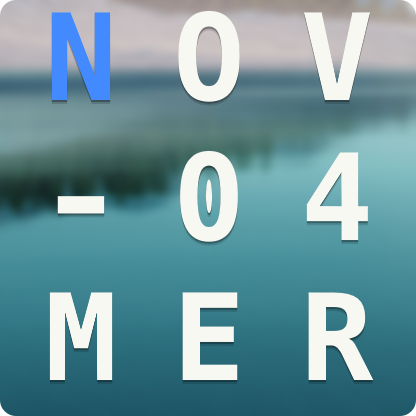
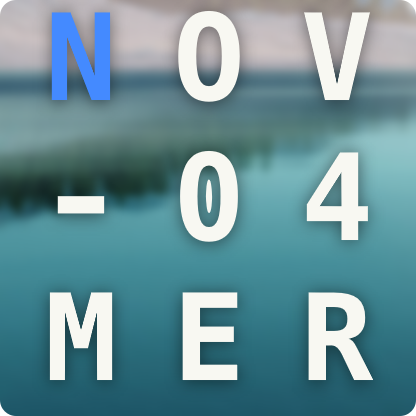
Soft Gaussian text shadow instead of offset copies
Uses the renderer's textShadow; SVG strokes get a faint halo and dividers
or tiles a box shadow. Previews refreshed.

Claude-Session: https://claude.ai/code/session_01TQxuuqy7Zop3gq1fjvXepm

diff --git a/src/shared/look.tsx b/src/shared/look.tsx
@@ -12,12 +12,17 @@ export interface Look {
   track: string;
   accent: string;
   onAccent: string;
+  /** CSS text-shadow on the wallpaper, null on a card or when turned off. */
+  shadow: string | null;
+  /** Colour of the soft halo SVG strokes get under them (SVG has no shadow), or null. */
+  halo: string | null;
 }
 
 export interface LookSettings {
   theme: string; // "dark" (light text) | "light" (dark text) | "auto" (follow Windows)
   accent: string; // "system" | "#RRGGBB"
   background: string; // "none" | "acrylic"
+  shadow?: boolean;
 }
 
 const valid = (c: string) => /^#[0-9a-fA-F]{6}$/.test(c);
@@ -49,9 +54,13 @@ export function look(s: LookSettings, system = { dark: true, accent: "#0078D4" }
     const base = valid(system.accent) ? system.accent : "#0078D4";
     accent = dark ? mix(base, 0.45) : mix(base, -0.2);
   } else accent = s.accent;
+  const card = s.background === "acrylic";
+  const shade = !card && s.shadow !== false;
   const base = {
     dark,
-    card: s.background === "acrylic",
+    card,
+    shadow: shade ? (dark ? "0 1px 8px rgba(0, 0, 0, 0.5)" : "0 0 8px rgba(255, 255, 255, 0.55)") : null,
+    halo: shade ? (dark ? "rgba(0, 0, 0, 0.1)" : "rgba(255, 255, 255, 0.22)") : null,
     accent,
     onAccent: luminance(accent) > 0.35 ? "#000000" : "#FFFFFF",
   };
@@ -73,27 +82,12 @@ export function uses12h(hourFormat: string): boolean {
   return localeInfo().hour12;
 }
 
-/** Every colour of the look replaced by one, for the shadow layers. */
-function flat(l: Look, color: string, track: string): Look {
-  return { ...l, text: color, text2: color, text3: color, track, accent: color, onAccent: color };
-}
-
 /**
  * The widget surface. Transparent by default, like the original desktop theme, with a soft
- * drop shadow under text, arcs and icons for legibility on any wallpaper (the renderer has no
- * text-shadow, so the content is drawn again, offset, in a translucent shadow colour).
- * "acrylic" puts the content on a Windows 11 card instead.
+ * Gaussian text shadow for legibility on any wallpaper; "acrylic" puts the content on a
+ * Windows 11 card instead.
  */
 export function Surface(props: { l: Look; shadow?: boolean; style?: Style; children: (l: Look) => JSX.Element }) {
-  const layer = (dy: number): Style => ({
-    position: "absolute",
-    inset: 0,
-    ...(dy ? { transform: `translateY(${dy}px)` } : {}),
-    ...props.style,
-  });
-  const shade = () => props.shadow !== false && !props.l.card;
-  // Light text gets a dark shadow; dark text a faint light one.
-  const tone = (a: number) => (props.l.dark ? `rgba(0, 0, 0, ${a})` : `rgba(255, 255, 255, ${a * 1.2})`);
   return (
     <view
       style={{
@@ -102,6 +96,7 @@ export function Surface(props: { l: Look; shadow?: boolean; style?: Style; child
         borderRadius: 8,
         overflow: "hidden",
         color: props.l.text,
+        ...(props.l.shadow ? { textShadow: props.l.shadow } : {}),
         ...(props.l.card
           ? {
               background: props.l.dark
@@ -110,11 +105,10 @@ export function Surface(props: { l: Look; shadow?: boolean; style?: Style; child
               border: `1px solid ${props.l.dark ? "rgba(255, 255, 255, 0.09)" : "rgba(0, 0, 0, 0.07)"}`,
             }
           : {}),
+        ...props.style,
       }}
     >
-      {shade() ? <view style={layer(2)}>{props.children(flat(props.l, tone(0.14), tone(0.05)))}</view> : null}
-      {shade() ? <view style={layer(1)}>{props.children(flat(props.l, tone(0.3), tone(0.1)))}</view> : null}
-      <view style={layer(0)}>{props.children(props.l)}</view>
+      {props.children(props.l)}
     </view>
   );
 }

diff --git a/src/wordclock/index.tsx b/src/wordclock/index.tsx
@@ -27,7 +27,7 @@ function WordClock() {
       {(c) => (
         <>
           {s().showDivider ? (
-            <view style={{ width: Math.round(Math.min(180 * k(), size().width * 0.6)), height: Math.max(2, Math.round(2 + k())), flexShrink: 0, background: c.text, marginBottom: Math.round(12 * k()) }} />
+            <view style={{ width: Math.round(Math.min(180 * k(), size().width * 0.6)), height: Math.max(2, Math.round(2 + k())), flexShrink: 0, background: c.text, marginBottom: Math.round(12 * k()), ...(c.shadow ? { boxShadow: c.dark ? "0 1px 6px rgba(0, 0, 0, 0.35)" : "0 0 6px rgba(255, 255, 255, 0.45)" } : {}) }} />
           ) : null}
           <text style={{ fontFamily: MONO, fontWeight: 700, fontSize: fs(), lineHeight: 1.2, color: c.text, whiteSpace: "nowrap" }}>
             {t().hour + " "}

diff --git a/src/weather/index.tsx b/src/weather/index.tsx
@@ -41,7 +41,7 @@ function Weather() {
             )}
           </text>
           {s().showDivider ? (
-            <view style={{ width: Math.round(Math.min(180 * k(), size().width * 0.5)), height: Math.max(2, Math.round(2 + k())), flexShrink: 0, background: c.text, marginTop: Math.round(12 * k()) }} />
+            <view style={{ width: Math.round(Math.min(180 * k(), size().width * 0.5)), height: Math.max(2, Math.round(2 + k())), flexShrink: 0, background: c.text, marginTop: Math.round(12 * k()), ...(c.shadow ? { boxShadow: c.dark ? "0 1px 6px rgba(0, 0, 0, 0.35)" : "0 0 6px rgba(255, 255, 255, 0.45)" } : {}) }} />
           ) : null}
         </>
       )}
